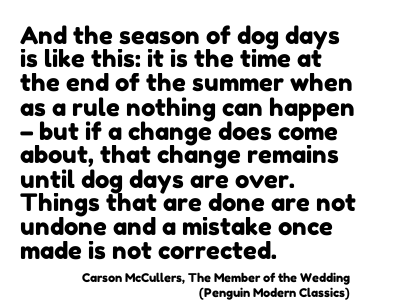
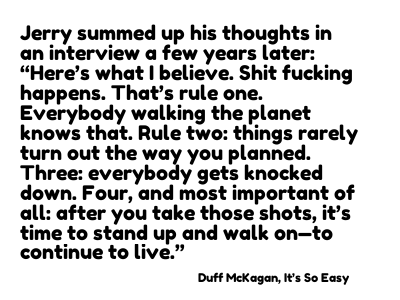
Updated renderer to use Pimoroni wikiquote example

diff --git a/renderer.py b/renderer.py
@@ -48,46 +48,124 @@ def create(quote):
   inky_display.set_border(inky_display.WHITE)
   inky_display.show()
 
+# Adapted from the Pimoroni inkyWhat examples: https://github.com/pimoroni/inky
+def create_pimoroni(quote):
+	import argparse
+	import random
+	import sys
 
+	from inky import InkyWHAT
 
+	from PIL import Image, ImageFont, ImageDraw
+	from font_source_serif_pro import SourceSerifProSemibold
+	from font_source_sans_pro import SourceSansProSemibold
+	
+	# Set up the correct display and scaling factors
+	inky_display = InkyWHAT('black')
+	inky_display.set_border(inky_display.WHITE)
+	# inky_display.set_rotation(180)
 
-def create_old(quote):
-  # From https://stackoverflow.com/questions/4902198/pil-how-to-scale-text-size-in-relation-to-the-size-of-the-image
-  from PIL import ImageFont, ImageDraw, Image
+	w = inky_display.WIDTH
+	h = inky_display.HEIGHT
 
-  image = Image.open('templates/coten.png')
-  draw = ImageDraw.Draw(image)
+	# Create a new canvas to draw on
+	img = Image.new("P", (inky_display.WIDTH, inky_display.HEIGHT))
+	draw = ImageDraw.Draw(img)
 
-  txt = quote[0]
-  author = quote[1]
-  title = quote[2]
+	# Load the fonts
+	font_size = 24
+	author_font_size = 18
 
-  fontsize = 1  # starting font size
+	quote_font = ImageFont.truetype(SourceSansProSemibold, font_size)
+	author_font = ImageFont.truetype(SourceSerifProSemibold, author_font_size)
 
-  import textwrap
-  lines = textwrap.wrap(txt, width=20)
+	# The amount of padding around the quote. Note that
+	# a value of 30 means 15 pixels padding left and 15
+	# pixels padding right.
+	#
+	# Also define the max width and height for the quote.
 
-  # portion of image width you want text width to be
-  img_fraction = 0.5
+	padding = 50
+	max_width = w - padding
+	max_height = h - padding - author_font.getsize("ABCD ")[1]
 
-  font = ImageFont.truetype("/Library/Fonts/Arial.ttf", fontsize)
-  while font.getsize(lines[0])[0] < img_fraction*image.size[0]:
-      # iterate until the text size is just larger than the criteria
-      fontsize += 1
-      font = ImageFont.truetype("/Library/Fonts/Arial.ttf", fontsize)
+	below_max_length = False
 
-  # de-increment to be sure it is less than criteria
-  fontsize -= 1
-  font = ImageFont.truetype("/Library/Fonts/Arial.ttf", fontsize)
+	# Only pick a quote that will fit in our defined area
+	# once rendered in the font and size defined.
 
-  print('final font size', fontsize)
+	while not below_max_length:
+			reflowed = reflow_quote(quote, max_width, quote_font)
+			p_w, p_h = quote_font.getsize(reflowed)  # Width and height of quote
+			p_h = p_h * (reflowed.count("\n") + 1)   # Multiply through by number of lines
 
-  text = textwrap.fill(txt, width=20)
+			if p_h < max_height:
+					below_max_length = True              # The quote fits! Break out of the loop.
 
-  # draw.text((200, 200), text, font=font, fill="Black")
-  # draw.text((10, 25), txt, font=font)
+			else:
+					font_size = font_size - 1
+					author_font_size = author_font_size - 1
 
-  "\n".join(textwrap.wrap(txt, width=40))
-  draw.text((200, 200), txt, font=font, fill="Black")
+					quote_font = ImageFont.truetype(SourceSansProSemibold, font_size)
+					author_font = ImageFont.truetype(SourceSerifProSemibold, author_font_size)
 
-  image.save('images/coten-%s.png' %datetime.now().strftime('%d-%m-%Y-%H-%M-%S')) # save it
+					continue
+
+	# x- and y-coordinates for the top left of the quote
+
+	quote_x = (w - max_width) / 2
+	quote_y = ((h - max_height) + (max_height - p_h - author_font.getsize("ABCD ")[1])) / 2
+
+	# x- and y-coordinates for the top left of the author
+
+	author_x = quote_x
+	author_y = quote_y + p_h
+
+	author = quote[1] + ', ' + quote[2]
+
+	# Draw red rectangles top and bottom to frame quote
+	#
+	#draw.rectangle((padding / 4, padding / 4, w - (padding / 4), quote_y - (padding / 4)), fill=inky_display.RED)
+	#draw.rectangle((padding / 4, author_y + author_font.getsize("ABCD ")[1] + (padding / 4) + 5, w - (padding / 4), h - (padding / 4)), fill=inky_display.RED)
+	#
+	# Add some white hatching to the red rectangles to make
+	# it look a bit more interesting
+	#
+	#hatch_spacing = 12
+	#
+	#for x in range(0, 2 * w, hatch_spacing):
+	#		draw.line((x, 0, x - w, h), fill=inky_display.WHITE, width=3)
+
+	# Write our quote and author to the canvas
+	draw.multiline_text((quote_x, quote_y), reflowed, fill=inky_display.BLACK, font=quote_font, align="left")
+	draw.multiline_text((author_x, author_y), author, fill=inky_display.RED, font=author_font, align="right")
+
+	print(reflowed + "\n" + author + "\n")
+
+	# Display the completed canvas on Inky wHAT
+
+	inky_display.set_image(img)
+	inky_display.show()
+
+# This function will take a quote as a string, a width to fit
+# it into, and a font (one that's been loaded) and then reflow
+# that quote with newlines to fit into the space required.
+def reflow_quote(quote, width, font):
+	words = quote[0].split(" ")
+	reflowed = '"'
+	line_length = 0
+
+	for i in range(len(words)):
+			word = words[i] + " "
+			word_length = font.getsize(word)[0]
+			line_length += word_length
+
+			if line_length < width:
+					reflowed += word
+			else:
+					line_length = word_length
+					reflowed = reflowed[:-1] + "\n  " + word
+
+	reflowed = reflowed.rstrip() + '"'
+
+	return reflowed

diff --git a/coten.py b/coten.py
@@ -2,7 +2,8 @@ import sys, quoter, renderer
 
 def main(argv):
   quote = quoter.fetch_kindle()
-  renderer.create(quote)
+  #renderer.create(quote)
+  renderer.create_pimoroni(quote)
 
 if __name__ == "__main__":
   main(sys.argv[1:])
